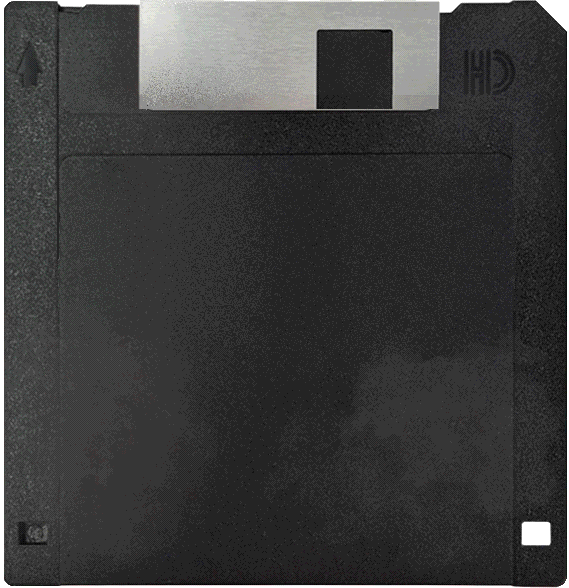
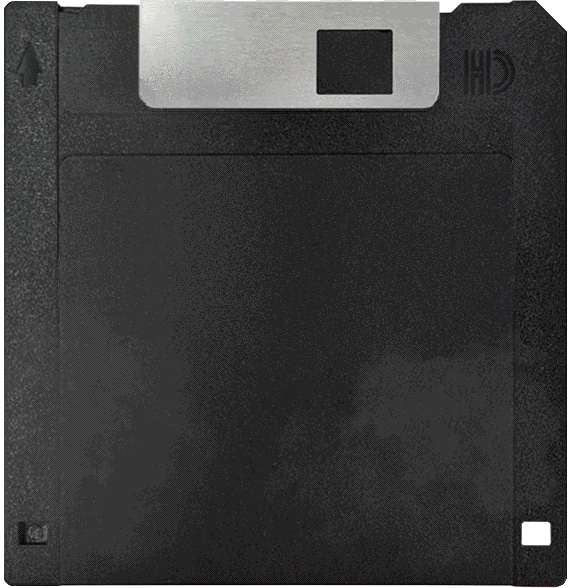
Card Update

Changed region(s): [[0.239, 0.1224, 0.7768, 0.2143]]

diff --git a/src/pages/Software.jsx b/src/pages/Software.jsx
@@ -7,7 +7,7 @@ function Software() {
       name: 'My Software',
       description: 'My applications and tools.',
       items: [
-        { id: 1, title: 'Floppy Painter', description: 'Floppy Painter is 2D and 3D Painting tool for general drawing and 3D painting.', bgImage: '/FloppyDiskEvenWider.png', fgImage: '/software-1-icon.png', url: 'https://example.com/tool1' },
+        { id: 1, title: 'Floppy Painter', description: 'Floppy Painter is 2D and 3D Painting tool for general drawing and 3D painting.', bgImage: '/FloppyDiskItchSize.png', fgImage: '/FoppyPainterCover.png', fgPosition: 'center', url: 'https://example.com/tool1' },
       ],
     },
     {
@@ -40,6 +40,7 @@ function Software() {
                   description={item.description}
                   bgImage={item.bgImage}
                   fgImage={item.fgImage}
+                  fgPosition={item.fgPosition}
                   url={item.url}
                 />
               ))

diff --git a/src/components/TiltCard.css b/src/components/TiltCard.css
@@ -17,12 +17,12 @@
   border-radius: 6px;
   overflow: hidden;
   position: relative;
-  aspect-ratio: 1 / 1;
+  aspect-ratio: 1.24 / 1;
   cursor: pointer;
   will-change: transform;
   transform-origin: center center;
   transition: transform 0.15s ease-out, box-shadow 0.2s;
-  height: 100%;
+  height: 115%;
 }
 
 .tilt-card-clickable {
@@ -41,17 +41,18 @@
 .tilt-card-bg {
   position: absolute;
   inset: 0;
-  background-size: cover;
-  background-position: center;
+  background-size: contain;
+  background-repeat: no-repeat;
+  background-position: center bottom;
   z-index: 0;
 }
 
 .tilt-card-fg {
   position: absolute;
-  bottom: 12px;
+  bottom: 2px;
   left: 12px;
-  right: 12px;
-  height: 75%;
+  right: 0px;
+  top: 52px;
   background-size: contain;
   background-repeat: no-repeat;
   background-position: center bottom;

diff --git a/src/components/CardPopup.css b/src/components/CardPopup.css
@@ -47,7 +47,7 @@
   bottom: 6px;
   left: 6px;
   right: 6px;
-  height: 75%;
+  top: 6px;
   background-size: contain;
   background-repeat: no-repeat;
   background-position: center bottom;
